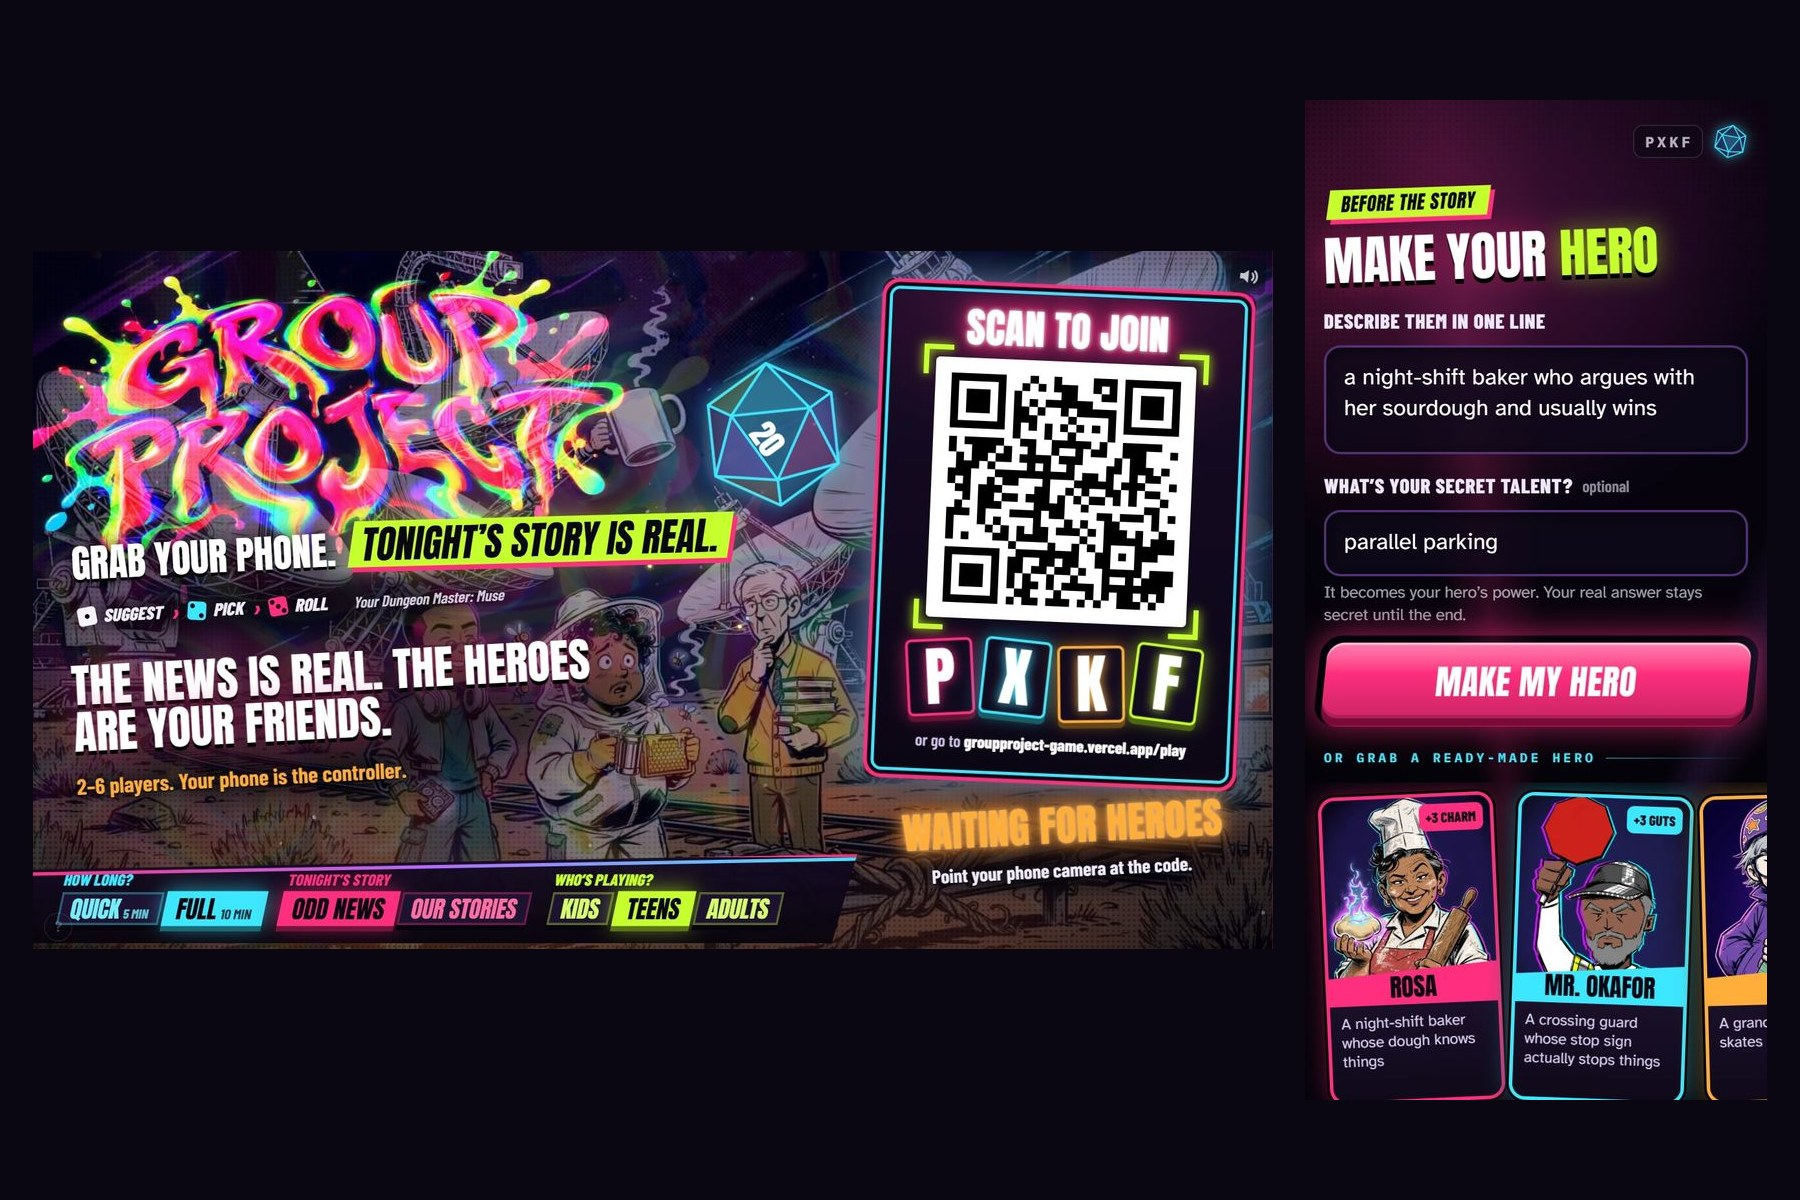
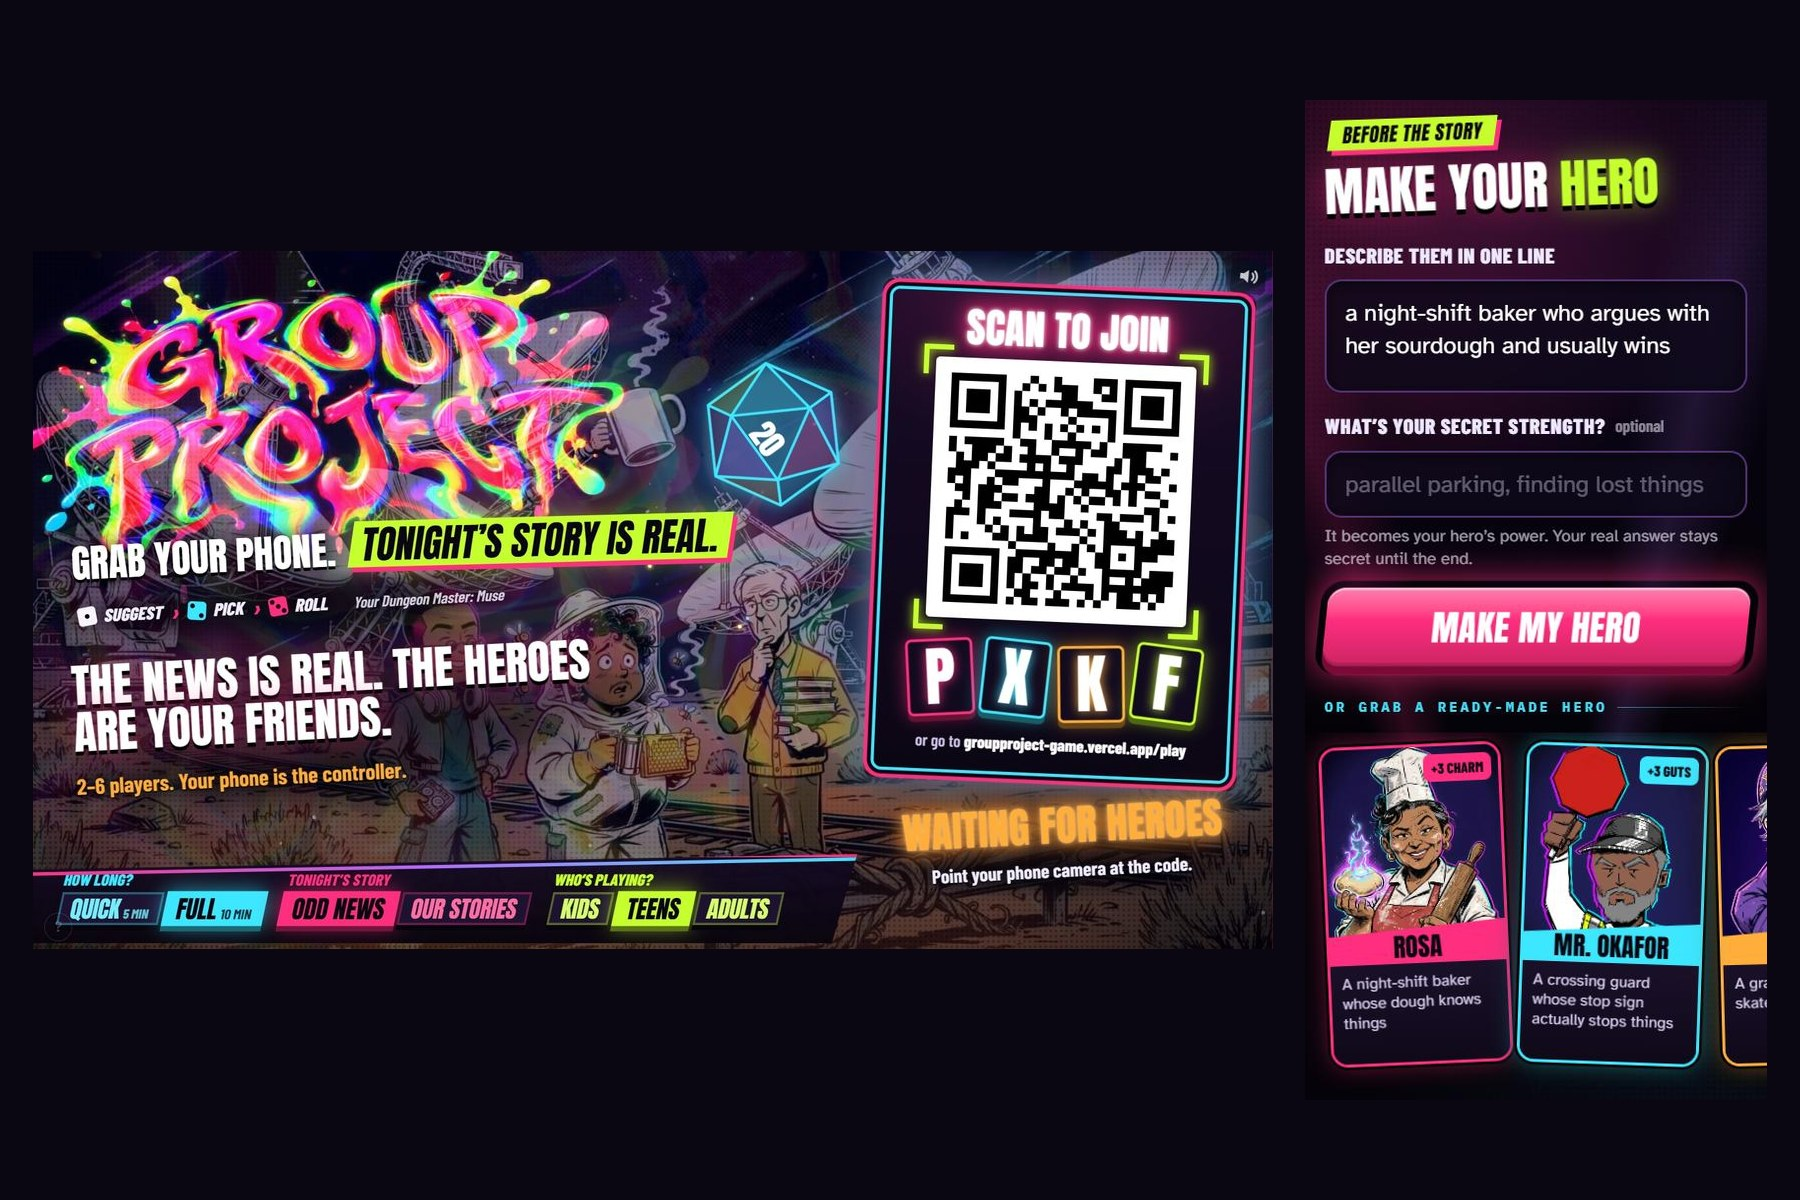
Devpost cover rebuilt with the 'secret strength' phone (look's capture)

Changed region(s): [[0.7156, 0.0925, 0.9956, 0.925]]

diff --git a/devpost-media/gallery-final/PICKS.md b/devpost-media/gallery-final/PICKS.md
@@ -2,7 +2,7 @@
 
 | # | File | Why |
 |---|---|---|
-| 1 | `1-lobby-and-phone.jpg` (cover) | The table and the controller in one frame: the lobby QR, "Tonight's story is real", and the phone's hero form (captured before the rename: it still reads "secret talent"; reshoot the phone after the deploy if there's time) |
+| 1 | `1-lobby-and-phone.jpg` (cover) | The table and the controller in one frame: the lobby QR, "Tonight's story is real", and the phone's hero form asking "What's your secret strength?" (rebuilt with look's capture) |
 | 2 | `2-friends-ideas-best-move.jpg` | The connection loop in one picture: friends suggest, you pick (+1), swipe to throw |
 | 3 | `3-heroes-painted-in.jpg` | Muse Image painting the players' own heroes into the scene |
 | 4 | `4-new-painting-read-aloud.jpg` | A new painting every turn, one ElevenLabs narrator |

diff --git a/DEVPOST_SUBMIT.md b/DEVPOST_SUBMIT.md
@@ -67,7 +67,6 @@ as a third link.
 4. `4-new-painting-read-aloud.jpg`: `A new painting every turn, read aloud by one narrator, Sarah.`
 5. `5-based-on-a-true-story.jpg`: `The ending: what you did, then what really happened.`
 6. `6-under-the-hood.jpg`: `Muse writes and judges. Code rolls the dice. Players steer.`
-(Upload #1 only after Claude rebuilds it with the "secret strength" phone; until then use the current file.)
 
 **Video demo link: replace** `https://youtu.be/wu14pZQE4NY` with the new video from the video session (~9:45). Check
 it in a private window first.
